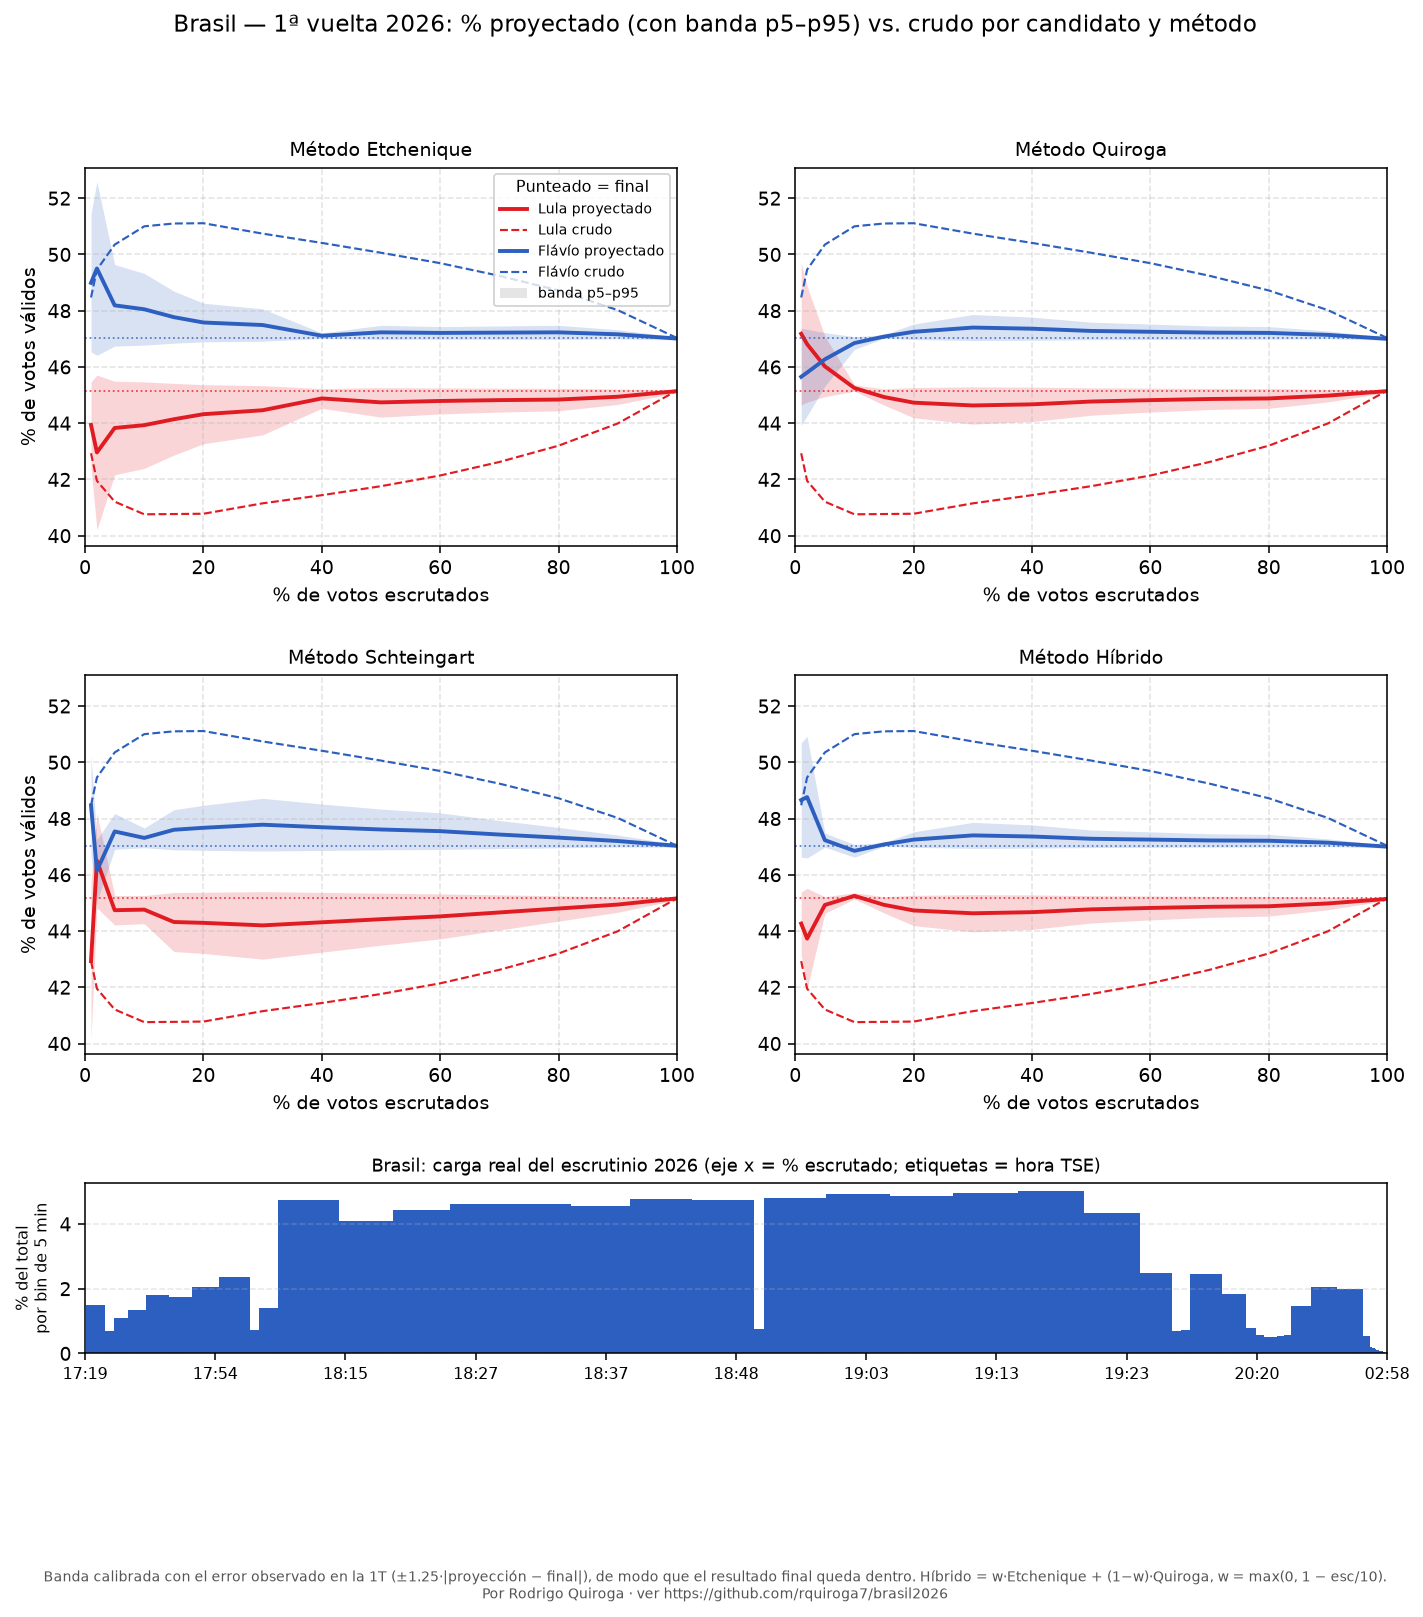
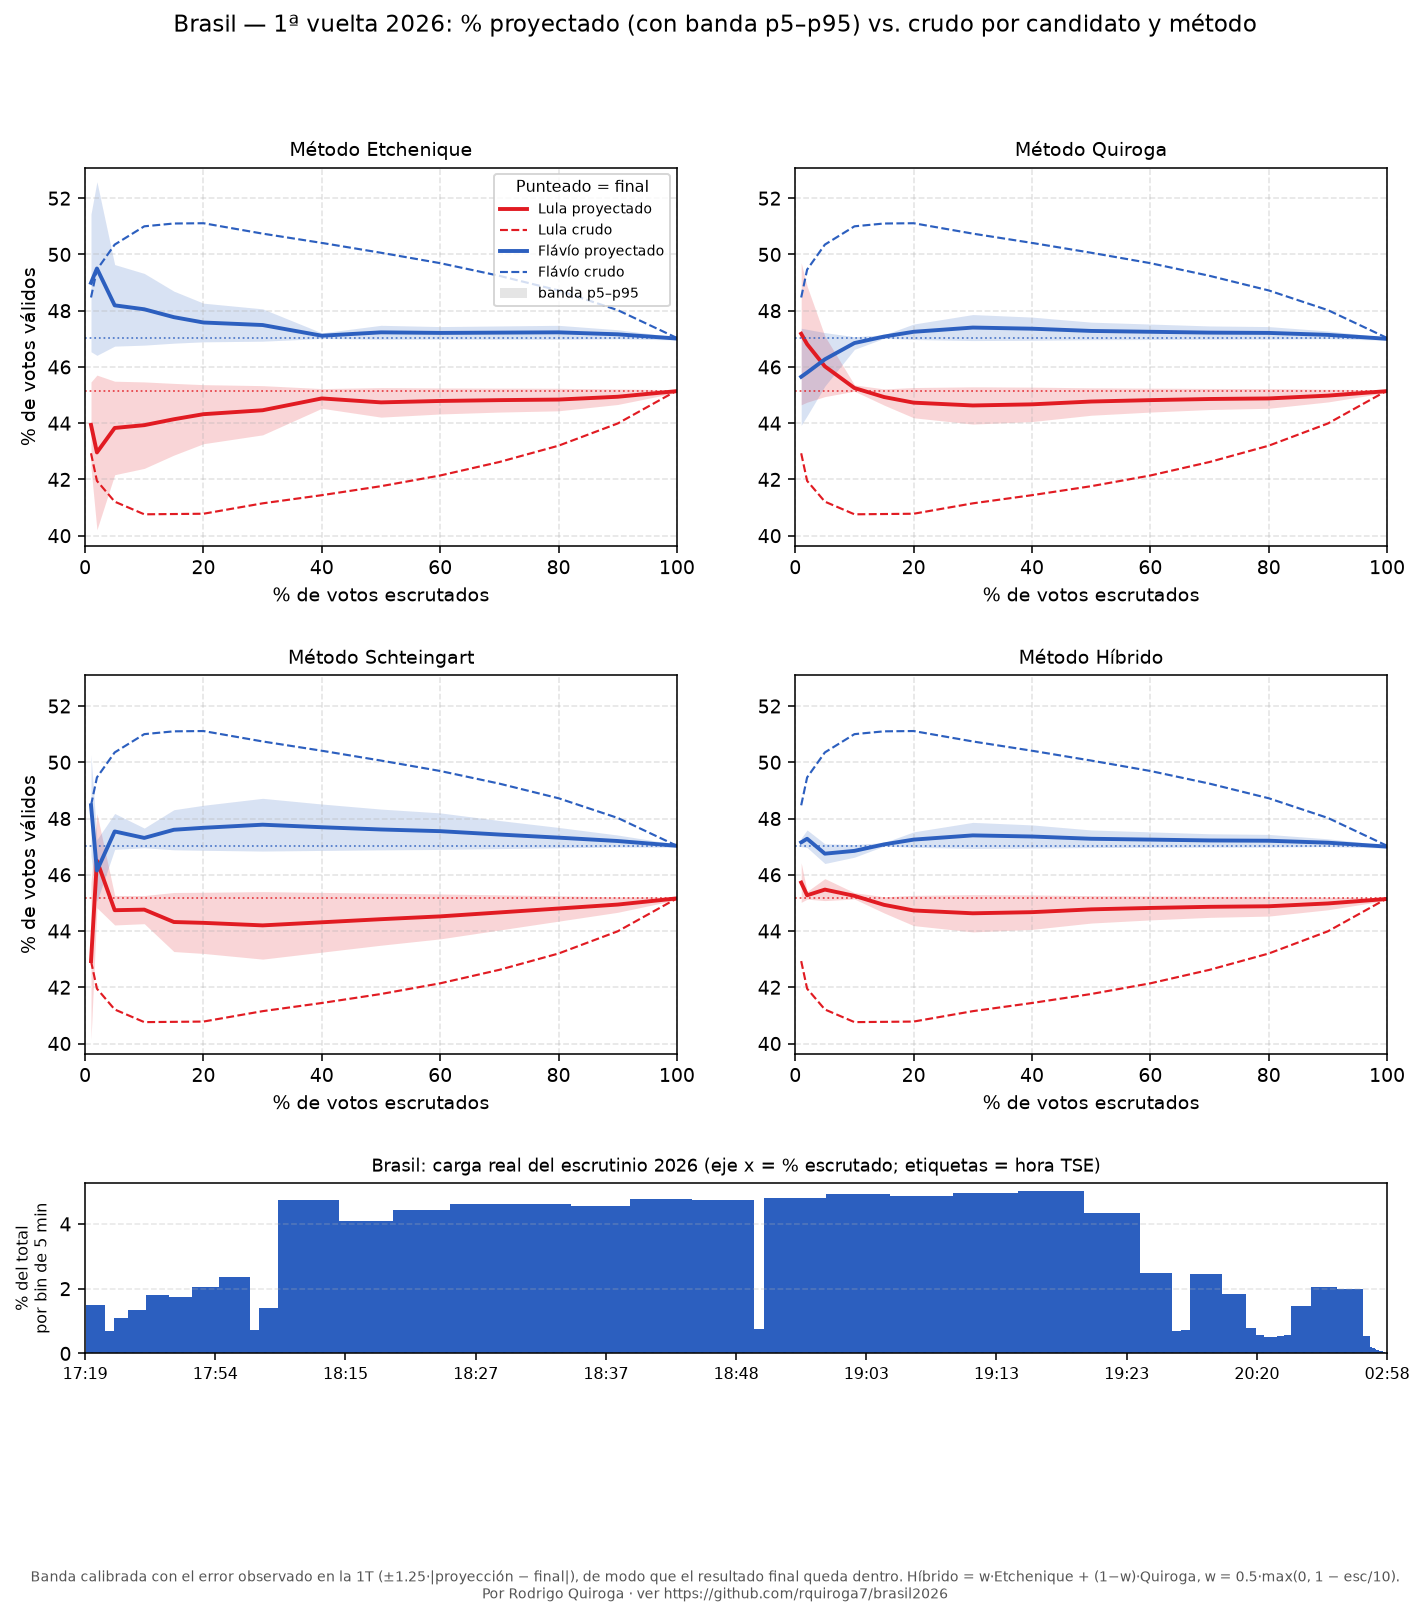
Hibrido: w_v1=0.5*max(0,1-esc/10); probabilidad mas suave (piso prudente sobre el p90 del margen)

diff --git a/index.html b/index.html
@@ -335,9 +335,10 @@ function pintarGanador() {
   const band = bandaDe(b, nat);
   const sl = Math.max((band.l[1] - band.l[0]) / (2 * 1.645), 0.1);
   const sf = Math.max((band.f[1] - band.f[0]) / (2 * 1.645), 0.1);
+  const piso = 0.5 + 1.5 * (1 - (datos.escrutado_pct || 0) / 100);
   const sm = (b.margen_p90 != null)
-    ? Math.max(b.margen_p90 / 1.645, 0.1)
-    : Math.hypot(sl, sf);
+    ? Math.hypot(b.margen_p90 / 1.645, piso)
+    : Math.hypot(sl, sf, piso);
   const m = b.lula.pct - b.flavio.pct;
   const pl = 1 - normCdf(-m / sm);
   const pf = 1 - pl;

diff --git a/graficar_backtest_probabilidad.py b/graficar_backtest_probabilidad.py
@@ -30,7 +30,7 @@ COL = {"lula": "#E11B22", "flavio": "#2C5FBF"}
 
 def main():
     bt = pd.read_csv(CSV).sort_values("escrutado_pct").reset_index(drop=True)
-    w = np.clip(1.0 - bt["escrutado_pct"] / 10.0, 0.0, 1.0)
+    w = 0.5 * np.clip(1.0 - bt["escrutado_pct"] / 10.0, 0.0, 1.0)
     bt["hyb_lula"] = w * bt["v1_lula"] + (1 - w) * bt["v2_lula"]
     bt["hyb_flavio"] = w * bt["v1_flavio"] + (1 - w) * bt["v2_flavio"]
 
@@ -45,7 +45,8 @@ def main():
         ax = fig.add_subplot(gs[i // 2, i % 2])
         axes.append(ax)
         margen = np.interp(bt["escrutado_pct"] / 100.0, xs, ms)
-        sd = np.maximum(margen / 1.645, 0.05)
+        # p90 calibrado + piso prudente que se angosta con el escrutado (menos confianza)
+        sd = np.hypot(margen / 1.645, 0.5 + 1.5 * (1 - bt["escrutado_pct"] / 100.0))
         for c, etiqueta in (("lula", "Lula"), ("flavio", "Flávio")):
             marg = (bt[f"{m_}_lula"] - bt[f"{m_}_flavio"]) if c == "lula" else \
                 (bt[f"{m_}_flavio"] - bt[f"{m_}_lula"])
@@ -93,7 +94,7 @@ def main():
     fig.tight_layout(rect=[0, 0.03, 1, 0.96])
     ep.mpl(fig, "Probabilidad implícita = normal sobre el margen proyectado, con el error p90 "
                 "del margen calibrado en la 1T (modelo de error). Híbrido = w·Etchenique + "
-                "(1−w)·Quiroga, w = max(0, 1 − esc/10).")
+                "(1−w)·Quiroga, w = 0.5·max(0, 1 − esc/10).")
     fig.savefig(OUT, dpi=140, bbox_inches="tight")
     plt.close(fig)
     print(f"[OK] {OUT}")

diff --git a/graficar_backtest_candidatos_band.py b/graficar_backtest_candidatos_band.py
@@ -29,7 +29,7 @@ COL = {"lula": "#E11B22", "flavio": "#2C5FBF"}
 
 def main():
     bt = pd.read_csv(CSV).sort_values("escrutado_pct").reset_index(drop=True)
-    w = np.clip(1.0 - bt["escrutado_pct"] / 10.0, 0.0, 1.0)
+    w = 0.5 * np.clip(1.0 - bt["escrutado_pct"] / 10.0, 0.0, 1.0)
     bt["hyb_lula"] = w * bt["v1_lula"] + (1 - w) * bt["v2_lula"]
     bt["hyb_flavio"] = w * bt["v1_flavio"] + (1 - w) * bt["v2_flavio"]
     # Banda calibrada con el error observado en la 1T: ±1.25·|proyección − final|,
@@ -104,7 +104,7 @@ def main():
     fig.tight_layout(rect=[0, 0.03, 1, 0.96])
     ep.mpl(fig, "Banda calibrada con el error observado en la 1T (±1.25·|proyección − final|), "
                 "de modo que el resultado final queda dentro. Híbrido = w·Etchenique + "
-                "(1−w)·Quiroga, w = max(0, 1 − esc/10).")
+                "(1−w)·Quiroga, w = 0.5·max(0, 1 − esc/10).")
     fig.savefig(OUT, dpi=140, bbox_inches="tight")
     plt.close(fig)
     print(f"[OK] {OUT}")

diff --git a/graficar_backtest_candidatos.py b/graficar_backtest_candidatos.py
@@ -44,7 +44,7 @@ def carga_real():
 
 def main():
     bt = pd.read_csv(CSV).sort_values("escrutado_pct").reset_index(drop=True)
-    w = np.clip(1.0 - bt["escrutado_pct"] / 10.0, 0.0, 1.0)
+    w = 0.5 * np.clip(1.0 - bt["escrutado_pct"] / 10.0, 0.0, 1.0)
     bt["hyb_lula"] = w * bt["v1_lula"] + (1 - w) * bt["v2_lula"]
     bt["hyb_flavio"] = w * bt["v1_flavio"] + (1 - w) * bt["v2_flavio"]
 
@@ -107,7 +107,7 @@ def main():
     fig.suptitle("Brasil — 1ª vuelta 2026: % proyectado vs. crudo por candidato y método",
                  fontsize=12)
     fig.tight_layout(rect=[0, 0.03, 1, 0.96])
-    ep.mpl(fig, "Híbrido = w·Etchenique + (1−w)·Quiroga, con w = max(0, 1 − esc/10). "
+    ep.mpl(fig, "Híbrido = w·Etchenique + (1−w)·Quiroga, con w = 0.5·max(0, 1 − esc/10). "
                 "Backtest con la carga real (marcas de tiempo del TSE).")
     fig.savefig(OUT, dpi=140, bbox_inches="tight")
     plt.close(fig)

diff --git a/calibrar_error.py b/calibrar_error.py
@@ -25,7 +25,7 @@ MET = ["v1", "v2", "scht", "hyb"]
 
 def main():
     bt = pd.read_csv(CSV).sort_values("escrutado_pct").reset_index(drop=True)
-    w = np.clip(1 - bt["escrutado_pct"] / 10, 0, 1)
+    w = 0.5 * np.clip(1 - bt["escrutado_pct"] / 10, 0, 1)
     bt["hyb_lula"] = w * bt["v1_lula"] + (1 - w) * bt["v2_lula"]
     bt["hyb_flavio"] = w * bt["v1_flavio"] + (1 - w) * bt["v2_flavio"]
 
